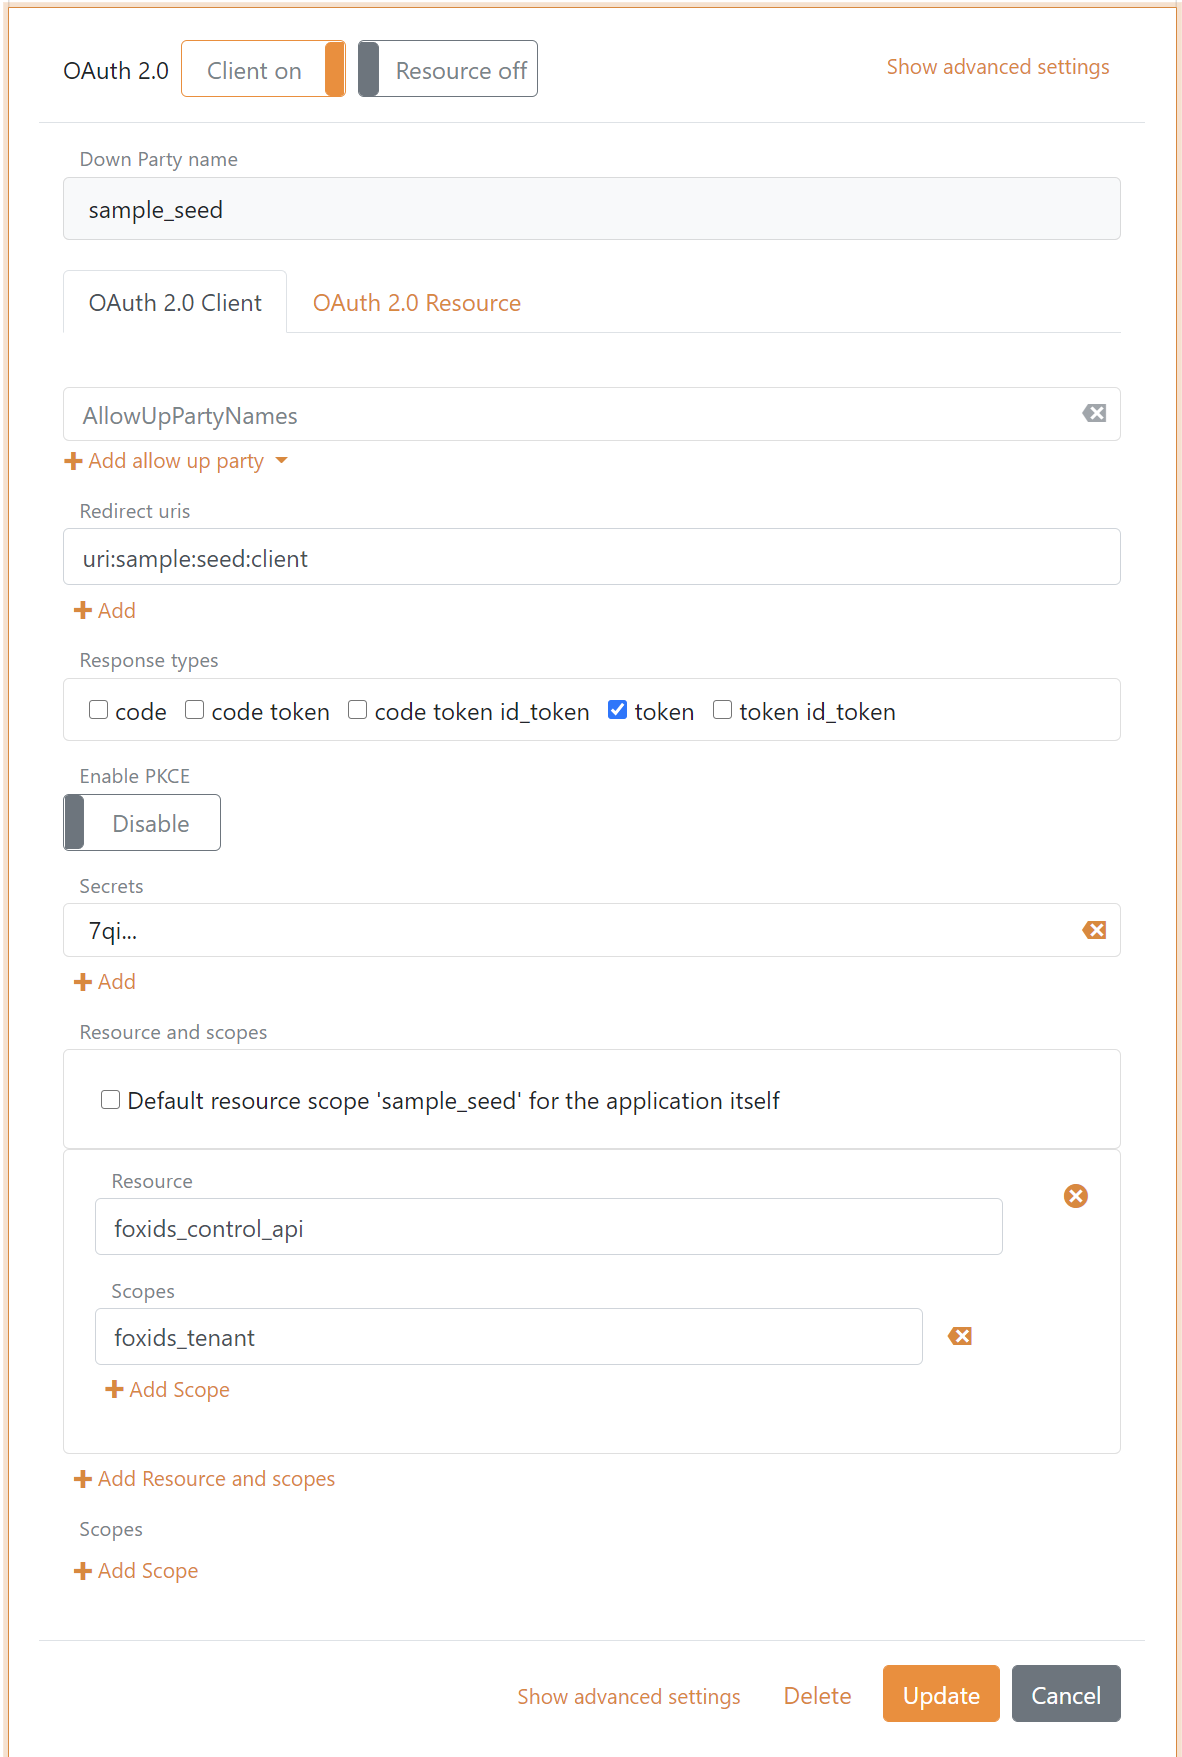
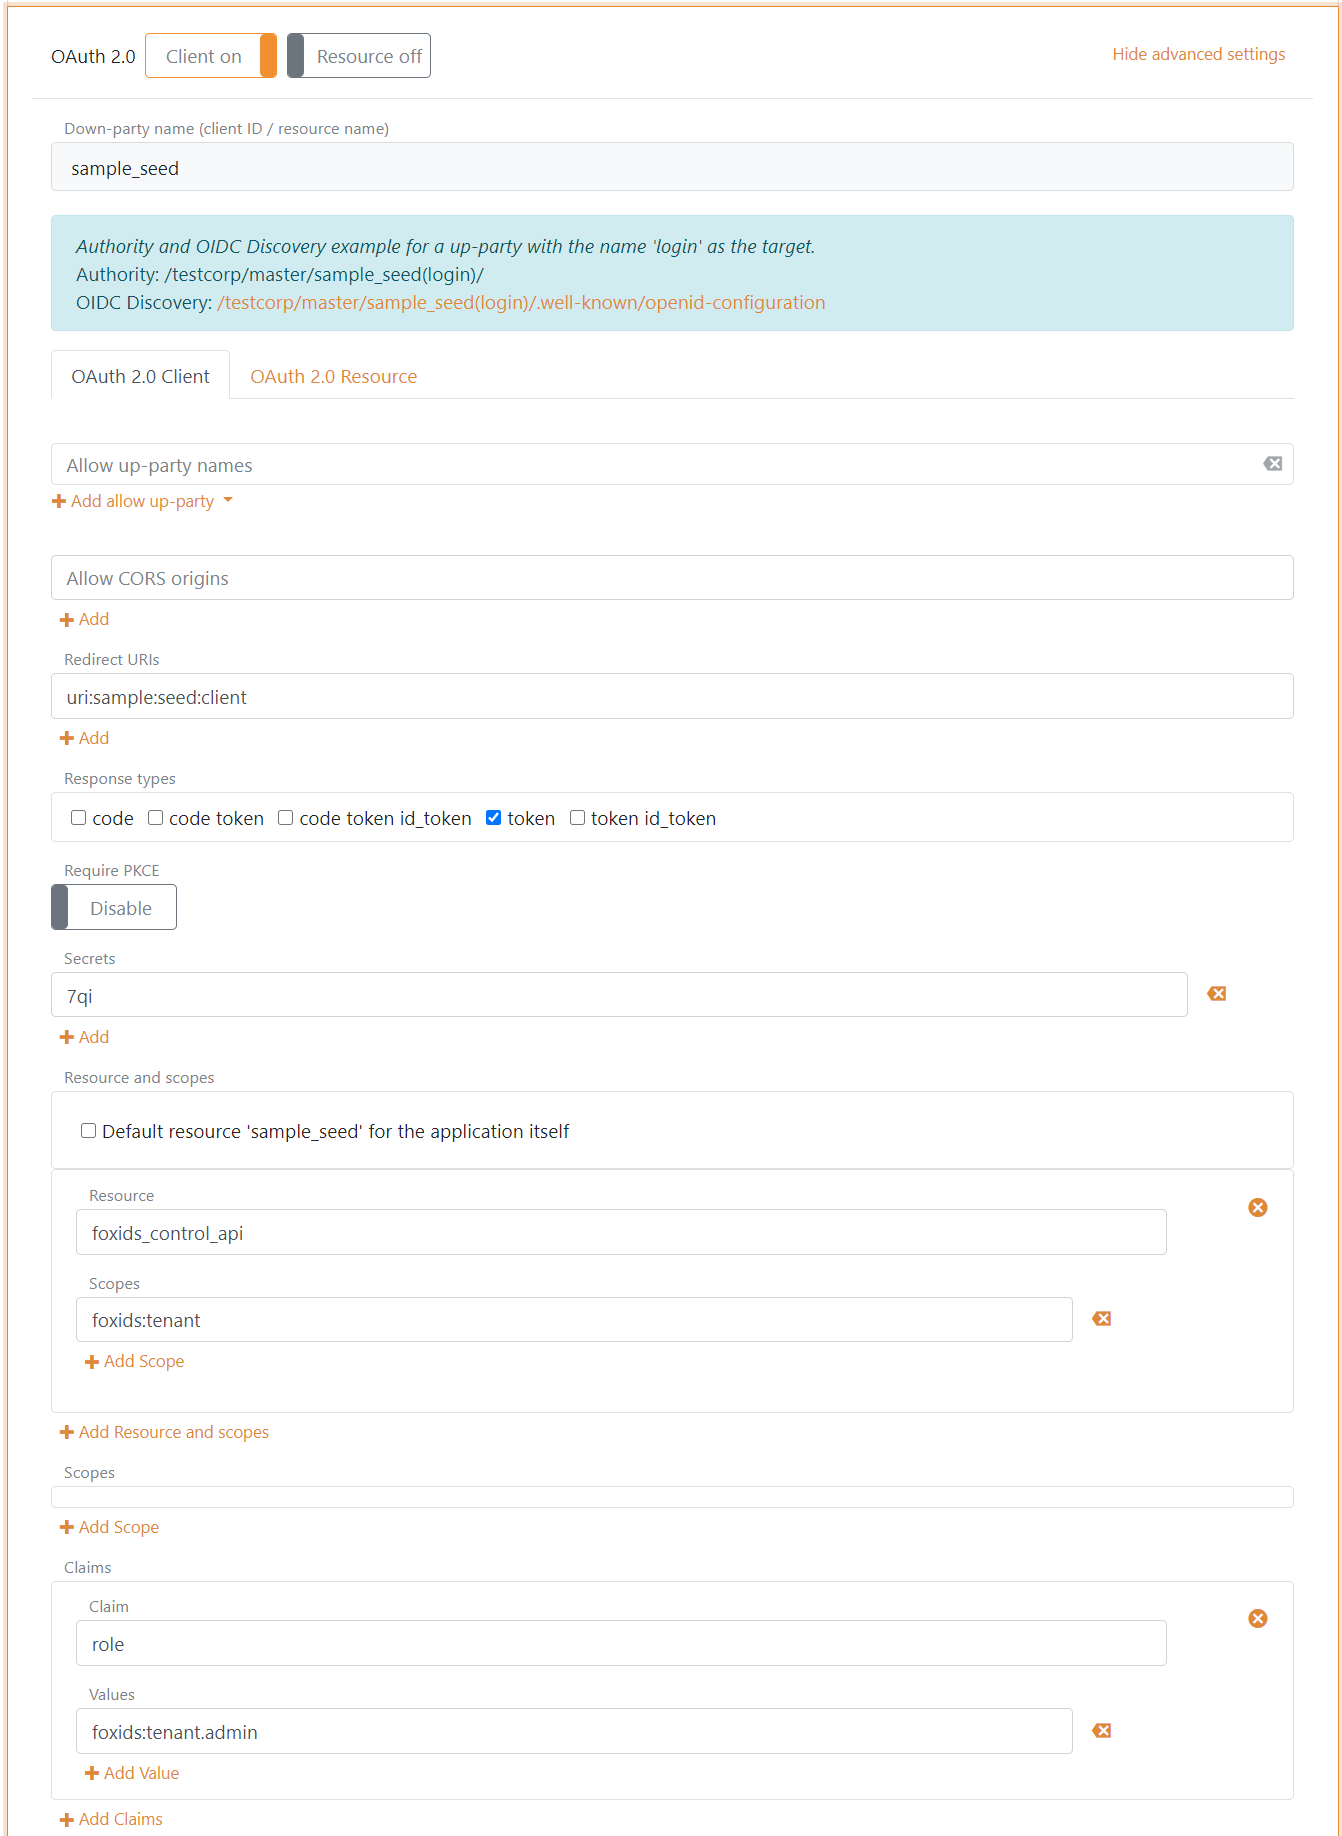
Control, Client claim values added.

diff --git a/src/FoxIDs.ControlClient/Models/ViewModels/Parties/OAuthDownPartyViewModel.cs b/src/FoxIDs.ControlClient/Models/ViewModels/Parties/OAuthDownPartyViewModel.cs
@@ -10,12 +10,12 @@ namespace FoxIDs.Client.Models.ViewModels
         [Required]
         [MaxLength(Constants.Models.Party.NameLength)]
         [RegularExpression(Constants.Models.Party.NameRegExPattern, ErrorMessage = "The field {0} can contain letters, numbers, '-' and '_'.")]
-        [Display(Name = "Down-party name")]
+        [Display(Name = "Down-party name (client ID / resource name)")]
         public string Name { get; set; }
 
         [ValidateComplexType]
         [Length(Constants.Models.DownParty.AllowUpPartyNamesMin, Constants.Models.DownParty.AllowUpPartyNamesMax, Constants.Models.Party.NameLength, Constants.Models.Party.NameRegExPattern)]
-        [Display(Name = "Allow up-party names")]
+        [Display(Name = "Allow up-party names (client IDs)")]
         public List<string> AllowUpPartyNames { get; set; } = new List<string>();
 
         /// <summary>

diff --git a/src/FoxIDs.ControlClient/Models/ViewModels/Parties/OidcDownPartyViewModel.cs b/src/FoxIDs.ControlClient/Models/ViewModels/Parties/OidcDownPartyViewModel.cs
@@ -10,12 +10,12 @@ namespace FoxIDs.Client.Models.ViewModels
         [Required]
         [MaxLength(Constants.Models.Party.NameLength)]
         [RegularExpression(Constants.Models.Party.NameRegExPattern, ErrorMessage = "The field {0} can contain letters, numbers, '-' and '_'.")]
-        [Display(Name = "Down-party name")]
+        [Display(Name = "Down-party name (client ID / resource name)")]
         public string Name { get; set; }
 
         [ValidateComplexType]
         [Length(Constants.Models.DownParty.AllowUpPartyNamesMin, Constants.Models.DownParty.AllowUpPartyNamesMax, Constants.Models.Party.NameLength, Constants.Models.Party.NameRegExPattern)]
-        [Display(Name = "Allow up-party names")]
+        [Display(Name = "Allow up-party names (client IDs)")]
         public List<string> AllowUpPartyNames { get; set; } = new List<string>();
 
         /// <summary>

diff --git a/src/FoxIDs.ControlShared/Models/Api/Parties/OAuthDownClaim.cs b/src/FoxIDs.ControlShared/Models/Api/Parties/OAuthDownClaim.cs
@@ -9,7 +9,7 @@ namespace FoxIDs.Models.Api
         [Required]
         [MaxLength(Constants.Models.Claim.JwtTypeLength)]
         [RegularExpression(Constants.Models.Claim.JwtTypeRegExPattern)]
-        [Display(Name = "Claims")]
+        [Display(Name = "Claim")]
         public string Claim { get; set; }
 
         [Length(Constants.Models.Claim.ValuesOAuthMin, Constants.Models.Claim.ValuesMax, Constants.Models.Claim.ValueLength)]

diff --git a/src/FoxIDs.ControlShared/Models/Api/Parties/OidcDownClaim.cs b/src/FoxIDs.ControlShared/Models/Api/Parties/OidcDownClaim.cs
@@ -9,7 +9,7 @@ namespace FoxIDs.Models.Api
         [Required]
         [MaxLength(Constants.Models.Claim.JwtTypeLength)]
         [RegularExpression(Constants.Models.Claim.JwtTypeRegExPattern)]
-        [Display(Name = "Claims")]
+        [Display(Name = "Claim")]
         public string Claim { get; set; }
 
         [Length(Constants.Models.Claim.ValuesOAuthMin, Constants.Models.Claim.ValuesMax, Constants.Models.Claim.ValueLength)]

diff --git a/docs/samples.md b/docs/samples.md
@@ -76,7 +76,14 @@ Add the FoxIDs and FoxIDs Control API endpoints to the sample seed tool configur
 ```
 
 Create the sample seed OAuth 2.0 client in the FoxIDs Control Client.  
-Set the client id to `sample_seed`, redirect Uri to `uri:sample:seed:client`) and response type to `token`. Remember the client secret. Give the sample seed client access to the FoxIDs Control API resource `foxids_control_api` with the scope `foxids:tenant` and granted the client the administrator role `foxids:tenant.admin`. The sample seed client is thereby granted access to update the tenant.
+
+- Select the master track and create a OAuth 2.0 down-party.
+- Set the client id to `sample_seed`, redirect Uri to `uri:sample:seed:client`) and response type to `token`. Add a client secret and Remember the secret.
+- In the resource and scopes section. Remove the default resource scope and give the sample seed client access to the FoxIDs Control API resource `foxids_control_api` with the scope `foxids:tenant`.
+- In the scopes section. Remove all scopes.
+- Click show advanced settings. In the claims section. Granted the client the administrator role `foxids:tenant.admin`. 
+
+The sample seed client is thereby granted access to update the tenant.
 
 ![FoxIDs Control Client - sample_seed client](images/sample_seed-client.png)
 
